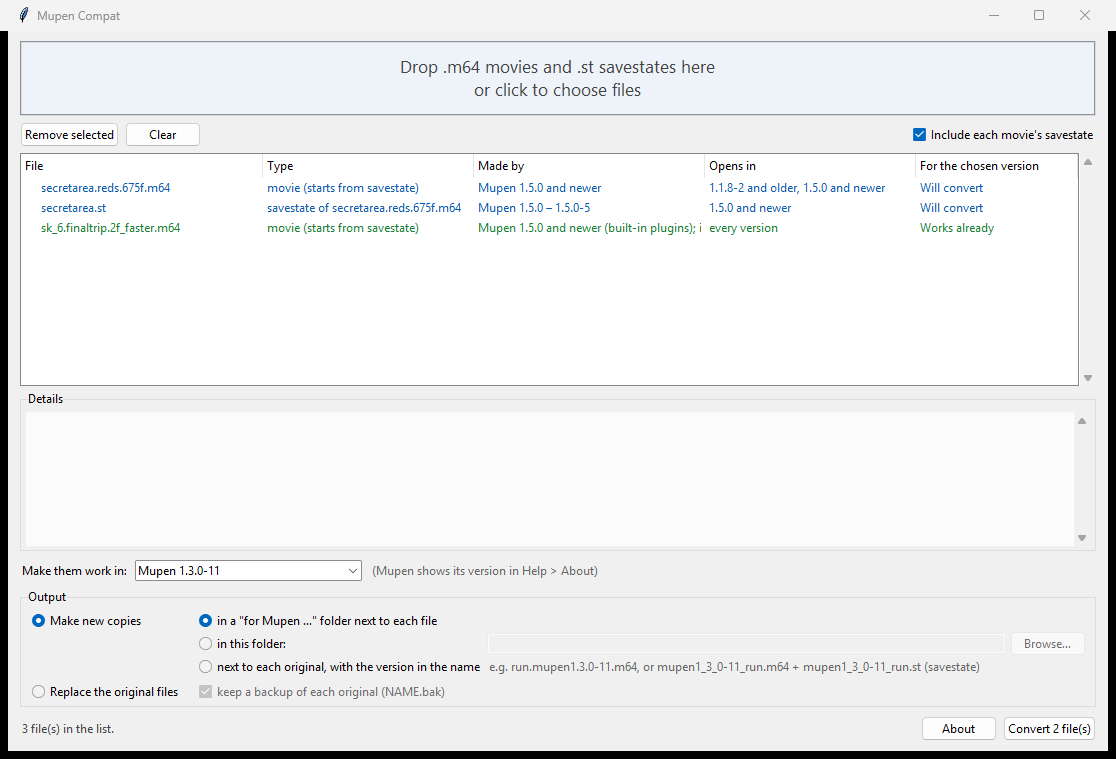
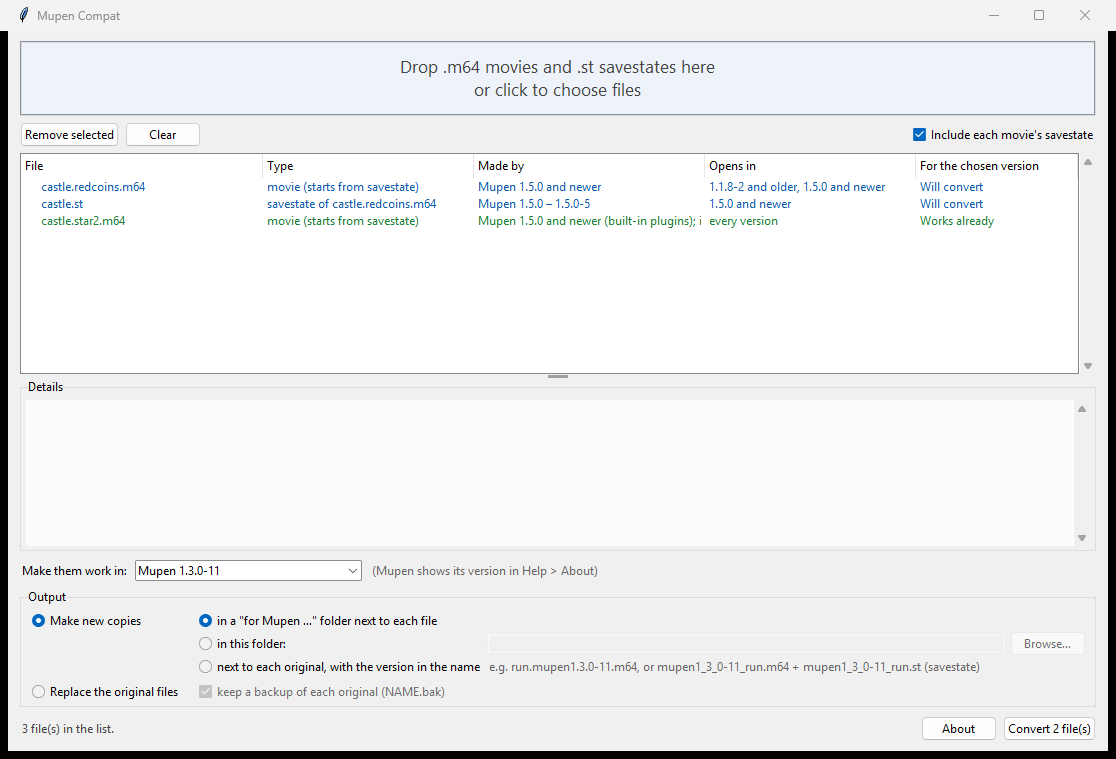
Docs and hygiene after the release audit
Dated and sourced test claims in the README, with the emulator harness named as not included; credits for
Mupen64-rr-lua and the LZ4 decoder; pinned build dependencies; neutral names in the tests, a docstring and the
screenshot; an unused import and an f-string tidied. No behaviour change: the program and its version are the same.

diff --git a/tests/test_formats.py b/tests/test_formats.py
@@ -1,6 +1,6 @@
 """Unit tests for the format rules and the batch conversion (synthetic files; no emulator).
 
-    python -m unittest tests/test_formats.py -v      (from projects/mupen_compat)
+    python -m unittest tests/test_formats.py -v      (from the repository root)
 """
 import gzip
 import os
@@ -26,7 +26,7 @@ def movie(ext=4, flags=0, start=F.START_SNAPSHOT, n=10, length=None, cpu_cf=1.0,
     h[0x24:0x28] = tag
     struct.pack_into('<II', h, 0x28, 0, 0)
     struct.pack_into('<dd', h, 0x30, cpu_cf, rcp)
-    h[0xC4:0xC4 + 15] = b'SM64 ISLAND 1.1'
+    h[0xC4:0xC4 + 15] = b'SM64 TEST HACK1'
     return bytes(h) + bytes(range(4 * n))
 
 
@@ -226,16 +226,16 @@ class Pairing(unittest.TestCase):
         # state may be written
         sub = os.path.join(self.d, 'island')
         os.makedirs(sub)
-        m = os.path.join(sub, 'sk_6.reds100c.to_whomp.m64')
+        m = os.path.join(sub, 'run_6.redcoins.to_whomp.m64')
         open(m, 'wb').write(movie(ext=1))
-        st = os.path.join(sub, 'sk_6.st')
+        st = os.path.join(sub, 'run_6.st')
         open(st, 'wb').write(gzip.compress(state_body()))
         other = self.put('my state.st', lz4_stored(state_body()))
         jobs = [Job(m), Job(other)]
         add_pairs(jobs)
         res = run_jobs(jobs, '1.3.0-11')
         self.assertEqual({os.path.basename(r.job.path): r.status for r in res},
-                         {'sk_6.reds100c.to_whomp.m64': 'unchanged', 'sk_6.st': 'unchanged',
+                         {'run_6.redcoins.to_whomp.m64': 'unchanged', 'run_6.st': 'unchanged',
                           'my state.st': 'converted'})
         self.assertFalse(os.path.exists(os.path.join(sub, 'for Mupen 1.3.0-11')))
         self.assertEqual(os.listdir(os.path.join(self.d, 'for Mupen 1.3.0-11')), ['my state.st'])
@@ -254,18 +254,18 @@ class Pairing(unittest.TestCase):
                 os.makedirs(d)
                 files = []
                 if ext is not None:
-                    files.append(os.path.join(d, 'sk_6.reds100c.to_whomp.m64'))
+                    files.append(os.path.join(d, 'run_6.redcoins.to_whomp.m64'))
                     open(files[-1], 'wb').write(movie(ext=ext, start=start))
                 if lz4 is not None:
-                    st = os.path.join(d, 'sk_6.st' if ext is not None else 'my state.st')
+                    st = os.path.join(d, 'run_6.st' if ext is not None else 'my state.st')
                     open(st, 'wb').write(lz4_stored(state_body()) if lz4 else gzip.compress(state_body()))
                     if ext is None:
                         files.append(st)
                 jobs = [Job(p) for p in files]
                 add_pairs(jobs)
                 run_jobs(jobs, target, mode='tagged')
-                new = sorted(set(os.listdir(d)) - {'sk_6.reds100c.to_whomp.m64', 'sk_6.st', 'my state.st'})
-                m, s = 'sk_6.reds100c.to_whomp.m64', 'sk_6.st'
+                new = sorted(set(os.listdir(d)) - {'run_6.redcoins.to_whomp.m64', 'run_6.st', 'my state.st'})
+                m, s = 'run_6.redcoins.to_whomp.m64', 'run_6.st'
                 movie_fine = target == '1.1.7'          # versions before 1.1.9 ignore the extended header
                 want = {'movie_only': [] if movie_fine else [appended(m, target)],
                         'both': sorted([prefixed(m, target), prefixed(s, target)]),
@@ -282,8 +282,8 @@ class Pairing(unittest.TestCase):
                         if case != 'movie_only':
                             self.assertEqual(os.path.basename(found), prefixed(s, target), (target, case, v))
             self.assertNotIn('.', name_prefix(target))                 # a dot in the prefix would break pairing
-        self.assertEqual(appended('sk_6.reds100c.to_whomp.m64', '1.3.0-11'), 'sk_6.reds100c.to_whomp.mupen1.3.0-11.m64')
-        self.assertEqual(prefixed('sk_6.st', '1.3.0-11'), 'mupen1_3_0-11_sk_6.st')
+        self.assertEqual(appended('run_6.redcoins.to_whomp.m64', '1.3.0-11'), 'run_6.redcoins.to_whomp.mupen1.3.0-11.m64')
+        self.assertEqual(prefixed('run_6.st', '1.3.0-11'), 'mupen1_3_0-11_run_6.st')
 
     def test_tagged_pair_that_already_works_is_skipped(self):
         m = self.put('run.m64', movie(ext=1))

diff --git a/mupencompat/gui.py b/mupencompat/gui.py
@@ -13,7 +13,7 @@ from tkinter.scrolledtext import ScrolledText
 from . import __version__
 from . import formats as F
 from . import report
-from .convert import Job, add_pairs, output_folder, pair_in_batch, run_jobs
+from .convert import Job, add_pairs, pair_in_batch, run_jobs
 from .dnd import enable_drops
 
 APP = 'Mupen Compat'
@@ -409,7 +409,7 @@ class App:
             try:
                 res = run_jobs(jobs, target, mode=mode, out_dir=out_dir, backup=backup)
                 self.results.put(('ok', res))
-            except Exception as ex:                        # noqa: BLE001 - shown to the user
+            except Exception as ex:                        # noqa: BLE001 - reported in a message box
                 self.results.put(('fail', ex))
         threading.Thread(target=work, daemon=True).start()
         self.root.after(100, self._poll, target, mode, out_dir)

diff --git a/mupencompat/formats.py b/mupencompat/formats.py
@@ -10,7 +10,6 @@ Every rule here comes from the emulator's own source, release by release (mupen6
 import gzip
 import os
 import struct
-import sys
 
 HERE = os.path.dirname(os.path.abspath(__file__))
 from .lz4frame import lz4_frame_decompress  # LZ4 frames in plain Python (no library needed)
@@ -116,7 +115,7 @@ SETTING_OPTION = {'Wii VC emulation': ('1.1.9', 'Wii VC emulation'),
 
 
 def setting_advice(name, value, v):
-    """What to tell the user about a sync setting the movie was recorded with, for version v (or ANY)."""
+    """The advice line for a sync setting the movie was recorded with, for version v (or ANY)."""
     since, option = SETTING_OPTION[name]
     if v != ANY and at_least(v, since) and option:
         return f'recorded with {name} = {value}: the old movie format can\'t store that, so set "{option}" to ' \

diff --git a/mupencompat/report.py b/mupencompat/report.py
@@ -66,7 +66,7 @@ def describe(info, target=None):
             lines += [f'  Note: {why}' for _, why in F.hard_limits(info)]
         if info.kind == 'movie' and info.builtin_plugins() and (target == F.ANY or
                                                                 not F.at_least(target, F.BUILTIN_PLUGINS)):
-            lines.append(f'  Note: recorded with 1.5\'s built-in plugins. Older Mupens need their own era\'s plugin '
+            lines.append('  Note: recorded with 1.5\'s built-in plugins. Older Mupens need their own era\'s plugin '
                          'DLLs (TASVideo, TASInput, TASRSP); for SM64 the movie synced with them in every tested '
                          'version.')
         try:

diff --git a/mupencompat/convert.py b/mupencompat/convert.py
@@ -118,7 +118,7 @@ def prefixed(name, target):
 
 
 def appended(name, target):
-    """sk_6.reds100c.to_whomp.m64 -> sk_6.reds100c.to_whomp.mupen1.3.0-11.m64"""
+    """run_6.redcoins.to_whomp.m64 -> run_6.redcoins.to_whomp.mupen1.3.0-11.m64"""
     stem, ext = os.path.splitext(name)
     return f'{stem}{name_suffix(target)}{ext}'
 

diff --git a/build.py b/build.py
@@ -1,6 +1,6 @@
 """Build dist/MupenCompat.exe: one file, no Python needed to run it.
 
-    pip install pyinstaller pillow
+    pip install pyinstaller==6.22.3 pillow==12.3.0   (the versions the release was built with)
     python build.py
 """
 import os

diff --git a/FORMATS.md b/FORMATS.md
@@ -82,9 +82,10 @@ its header version was lowered.
 (no emulation before 1.5.0). A movie recorded with them may desync where the setting can't be matched.
 
 ## Test results (2026-10-15)
-Cases: the 675f secret-reds movie (Island ROM, 683 inputs, extended v4) + its LZ4 `secretarea.st`, made in 1.5;
-"syncs" = played to the last input with gGlobalTimer, Mario's action and position identical to the 1.5.0-5 reference
-on every game frame. "v4 movie alone" = the original movie with a gzip copy of the state. LZ4 state = a 1.5 savestate on the same ROM.
+Cases: a 683-input movie made in 1.5 (extended v4) on an SM64 hack (US layout) + its LZ4 savestate; "syncs" =
+played to the last input with gGlobalTimer, Mario's action and position identical to the 1.5.0-5 reference on every
+game frame. "v4 movie alone" = the original movie with a gzip copy of the state. "LZ4 state" = a separate 1.5
+savestate on the same ROM.
 | Version | 1.5 pair, original | 1.5 pair, converted | v4 movie alone | LZ4 state, original | LZ4 state, converted |
 |---|---|---|---|---|---|
 | 1.1.8-2 | fails (state "from another rom") | syncs | **syncs** | fails | loads |
@@ -104,17 +105,17 @@ it with a warning. A gzip state with an RGBA screenshot loads in 1.3.0-11, 1.4.0
 same RAM words at every input sample) up to the last input. Runs in silent mode (no dialogs, no beeps).
 | Movie | ROM | Start | Inputs | Format | Reference | Played in | Result |
 |---|---|---|---|---|---|---|---|
-| Task 11 (TAS comp) | US | savestate (LZ4) | 783 | ext 4 | 1.5.0-6 | converted: 1.4.0-7, 1.3.0-11, 1.1.9-8 | all sync |
-| Decade comp task 1 | US | savestate (LZ4) | 1,249 | ext 4 | 1.5.0-6 | converted: 1.4.0-7, 1.3.0-11, 1.1.9-8 | all sync |
-| Bowser stage | Island | savestate (LZ4) | 1,604 | ext 4 | 1.5.0-6 | converted: 1.4.0-7, 1.3.0-11, 1.1.9-8 | all sync |
-| poweron.lobby.168f | Island | power-on | 168 | ext 4 | 1.5.0-6 | converted: 1.4.0-7, 1.3.0-11, 1.1.9-8 | all sync |
-| poweron.room1_to_sk100c.13209f (several levels) | Island | power-on | 13,209 | ext 4 | 1.5.0-6 | converted: 1.3.0-11 | syncs |
-| wdwexpress | US speed patch | savestate | 154 | ext 1 (1.4.0-7 plugins) | 1.4.0-7 | 1.5.0-6 | syncs |
-| bits_exit.to_rr | US | savestate | 133 | ext 1 (1.3 plugins) | 1.3.0-11 | 1.5.0-6 | syncs |
-| task 9 star road | Star Road | savestate | 751 | ext 1 (1.4 beta plugins) | 1.4.0-beta | 1.5.0-6 | syncs |
-| sk_6.finaltrip | Island | savestate | 2,728 | ext 1 | 1.4.0-7 | 1.5.0-6, 1.3.0-11 | both sync |
-| Castle Grounds to Lobby 5.20 (old HLE RSP plugin era) | JP | power-on | 1,770 | ext 0 | 1.3.0-11 | 1.5.0-6, 1.1.9-8 | both sync |
-| hole_in_two | US speed patch | power-on | 2,614 | ext 1 | 1.3.0-11 | 1.5.0-6 | syncs |
+| a competition task (one level) | US | savestate (LZ4) | 783 | ext 4 | 1.5.0-6 | converted: 1.4.0-7, 1.3.0-11, 1.1.9-8 | all sync |
+| a competition task (one level) | US | savestate (LZ4) | 1,249 | ext 4 | 1.5.0-6 | converted: 1.4.0-7, 1.3.0-11, 1.1.9-8 | all sync |
+| a Bowser stage | an SM64 hack | savestate (LZ4) | 1,604 | ext 4 | 1.5.0-6 | converted: 1.4.0-7, 1.3.0-11, 1.1.9-8 | all sync |
+| intro to the castle lobby | an SM64 hack | power-on | 168 | ext 4 | 1.5.0-6 | converted: 1.4.0-7, 1.3.0-11, 1.1.9-8 | all sync |
+| a full-game segment (several levels) | an SM64 hack | power-on | 13,209 | ext 4 | 1.5.0-6 | converted: 1.3.0-11 | syncs |
+| a short level clip | US with a speed patch | savestate | 154 | ext 1 (1.4.0-7 plugins) | 1.4.0-7 | 1.5.0-6 | syncs |
+| a level exit | US | savestate | 133 | ext 1 (1.3 plugins) | 1.3.0-11 | 1.5.0-6 | syncs |
+| a competition task | Star Road (a hack) | savestate | 751 | ext 1 (1.4 beta plugins) | 1.4.0-beta | 1.5.0-6 | syncs |
+| a 100-coin run | an SM64 hack | savestate | 2,728 | ext 1 | 1.4.0-7 | 1.5.0-6, 1.3.0-11 | both sync |
+| castle grounds to the lobby (old HLE RSP plugin era) | JP | power-on | 1,770 | ext 0 | 1.3.0-11 | 1.5.0-6, 1.1.9-8 | both sync |
+| a hole-in-one style run | US with a speed patch | power-on | 2,614 | ext 1 | 1.3.0-11 | 1.5.0-6 | syncs |
 
 So for SM64 and its US-based hacks, the versions from 1.1.9 to 1.5.0-6 emulate identically, and the file format is
 the only thing standing between them. 1.1.8-2 couldn't serve as a reference for a power-on movie: its Lua logger
@@ -122,6 +123,10 @@ wrote nothing (a power-on start restarts `--lua` scripts), so that one is not a 
 
 **Real input (2026-10-15):** genuine mouse drags from Explorer (one file, then two
 selected with Ctrl+A onto the drop area, the duplicate ignored and the pair recognised) and a real click on Convert,; the copies landed in "for every Mupen".
+
+**What is and isn't in this repository.** The unit tests (`tests/test_formats.py`, synthetic files, no emulator) are included and run with one command. The real-emulator runs above, the window scenarios and the real-input test were
+driven from the author's machine (archived Mupen builds, private movies, a hidden desktop) and are not shipped; their
+results are the dated tables on this page.
 
 **Not tested:** 1.0.x (1.0.10 found none of the available plugins; its rules come from the source only) and the
 1.1.1 – 1.1.7 releases (no binaries here).

diff --git a/README.md b/README.md
@@ -67,8 +67,10 @@ It only changes the *file format*, never your inputs or the game state:
 
 ## Will the movie stay in sync?
 
-For Super Mario 64 and its hacks, yes: converted movies were tested in the real emulators (1.1.8 through 1.5.0-6)
-and matched the original frame for frame. Older movies also play the same in new versions.
+For Super Mario 64 and its hacks, yes: on 2026-10-15, converted movies were played in the real emulators (1.1.8-2
+through 1.5.0-6: 15 builds, 11 movies in both directions) and matched the original frame for frame. Older movies also
+play the same in new versions. The per-version tables are in [FORMATS.md](FORMATS.md); those emulator runs were made
+from the author's machine and are not part of this repository, so they can't be re-run from here.
 
 Sync can still depend on emulator **settings**. When a movie says it was recorded with a special setting that
 older versions can't read from the file (like the counter factor or RCP lag), the details tell you which setting to
@@ -91,18 +93,30 @@ version).
 
 ## For developers
 
-Python 3.10+ on Windows, no extra packages:
+Python 3.10+ on Windows; the program itself needs no packages beyond the standard library (tkinter included).
 
 ```
 python MupenCompat.pyw                          # the window
 python -m mupencompat --report FILE...          # analyse files in the terminal
 python -m mupencompat --convert --target 1.3.0-11 FILE...
-python -m unittest tests/test_formats.py        # tests
-python build.py                                 # builds dist/MupenCompat.exe (needs pyinstaller and pillow)
+python -m unittest discover -s tests            # the unit tests (synthetic files, no emulator needed)
+pip install pyinstaller==6.22.3 pillow==12.3.0  # only to build the exe
+python build.py                                 # builds dist/MupenCompat.exe
 ```
 
-[FORMATS.md](FORMATS.md) is the technical write-up: what changed in each Mupen release and the test results.
+The unit tests check the format rules and the conversion on generated files. They do not run Mupen: the emulator
+results in the README and in FORMATS.md come from the author's test harness, which is not in this repository.
 
-## Licence
+[FORMATS.md](FORMATS.md) is the technical write-up: what changed in each Mupen release, how it was learned, and the
+test results.
 
-MIT, see [LICENSE](LICENSE). Mupen64-rr-lua is a separate project: [mupen64/mupen64-rr-lua](https://github.com/mupen64/mupen64-rr-lua).
+## Licence and credits
+
+MIT, see [LICENSE](LICENSE).
+
+- The file formats were learned by reading the source of [Mupen64-rr-lua](https://github.com/mupen64/mupen64-rr-lua)
+  (GPL-2.0-or-later), release by release, and by testing its published builds. No Mupen code is included here; the
+  byte layouts in `mupencompat/formats.py` and FORMATS.md are descriptions of that format, written for this tool.
+- `mupencompat/lz4frame.py` is a small LZ4 frame decoder written for this tool (plain Python, so no extra package is
+  needed); it implements the public [LZ4 frame format](https://github.com/lz4/lz4/blob/dev/doc/lz4_Frame_format.md).
+- No ROM, savestate or movie data is included. The tests generate their own files.
